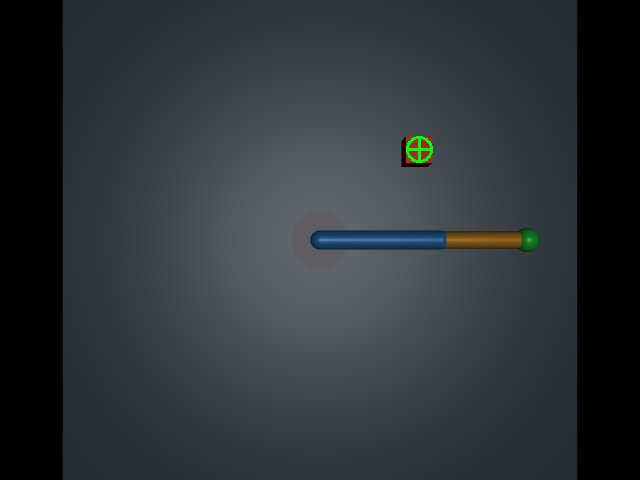
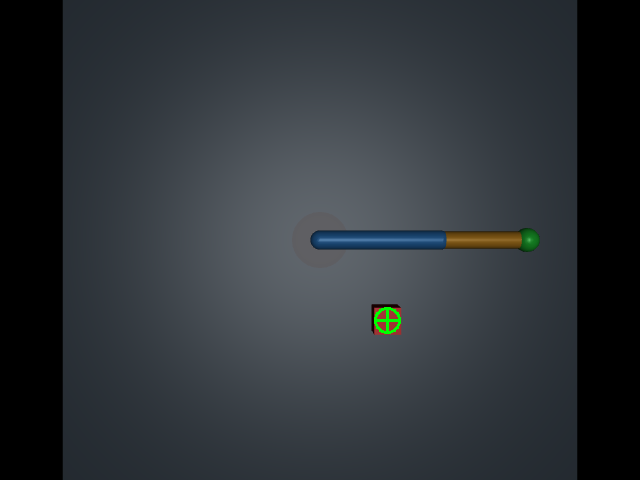
pixel to world mapping completed

Changed region(s): [[0.5625, 0.625, 0.625, 0.7188], [0.625, 0.2812, 0.6875, 0.375]]

diff --git a/tests/test_transforms.py b/tests/test_transforms.py
@@ -1,0 +1,107 @@
+import pytest
+
+from sight2servo.transforms import overhead_pixel_to_world_xy
+from sight2servo.vision import detect_red_target_centroid
+from sight2servo.camera import render_rgb_frame
+
+import mujoco
+
+from pathlib import Path
+
+
+def test_image_center_maps_directly_below_camera():
+    world_xy_m = overhead_pixel_to_world_xy(
+        pixel_u_px=319.5,
+        pixel_v_px=239.5,
+        image_width_px=640,
+        image_height_px=480,
+        camera_x_m=0.10,
+        camera_y_m=-0.20,
+        camera_z_m=1.20,
+        plane_z_m=0.06,
+        vertical_fov_deg=50.0,
+    )
+
+    assert world_xy_m == pytest.approx(
+        (0.10, -0.20)
+    )
+
+
+def test_detected_target_pixel_maps_to_known_world_position():
+    world_xy_m = overhead_pixel_to_world_xy(
+        pixel_u_px=419,
+        pixel_v_px=149,
+        image_width_px=640,
+        image_height_px=480,
+        camera_x_m=0.0,
+        camera_y_m=0.0,
+        camera_z_m=1.20,
+        plane_z_m=0.06,
+        vertical_fov_deg=50.0,
+    )
+
+    assert world_xy_m == pytest.approx(
+        (0.22, 0.20),
+        abs=0.003,
+    )
+
+
+@pytest.mark.parametrize(
+    ("target_x_m", "target_y_m"),
+    [
+        (0.22, 0.20),
+        (-0.20, 0.15),
+        (0.15, -0.18),
+    ],
+)
+def test_camera_detection_maps_known_target_positions(
+    target_x_m,
+    target_y_m
+):
+    MODEL_PATH = (
+        Path(__file__).resolve().parents[1]
+        / "models"
+        / "arm.xml"
+    )
+    model = mujoco.MjModel.from_xml_path(
+        str(MODEL_PATH)
+    )
+    model.body("target").pos[:2] = (
+        target_x_m,
+        target_y_m,
+    )
+    data = mujoco.MjData(model)
+    mujoco.mj_forward(model, data)
+
+    renderer = mujoco.Renderer(
+            model,
+            height=240,
+            width=320,
+    )
+
+    try:
+        frame_rgb = render_rgb_frame(renderer, data, "overhead")
+    finally:
+        renderer.close()
+
+    centroid_px = detect_red_target_centroid(frame_rgb)
+
+    assert centroid_px is not None
+    centroid_u_px, centroid_v_px = centroid_px
+
+    estimated_xy_m = overhead_pixel_to_world_xy(
+        pixel_u_px=centroid_u_px,
+        pixel_v_px=centroid_v_px,
+        image_width_px=320,
+        image_height_px=240,
+        camera_x_m=0.0,
+        camera_y_m=0.0,
+        camera_z_m=1.20,
+        plane_z_m=0.06,
+        vertical_fov_deg=50.0,
+    )
+
+    assert estimated_xy_m == pytest.approx(
+        (target_x_m, target_y_m),
+        abs=0.006,
+    )

diff --git a/src/sight2servo/vision_demo.py b/src/sight2servo/vision_demo.py
@@ -4,6 +4,7 @@ import mujoco
 
 from sight2servo.camera import render_rgb_frame
 from sight2servo.vision import detect_red_target_centroid
+from sight2servo.transforms import overhead_pixel_to_world_xy
 
 import cv2
 
@@ -16,6 +17,10 @@ MODEL_PATH = (
 model = mujoco.MjModel.from_xml_path(
     str(MODEL_PATH)
 )
+
+# model.body("target").pos[:2] = (-0.20, 0.15)
+# model.body("target").pos[:2] = (0.15, -0.18)
+
 
 data = mujoco.MjData(model)
 
@@ -46,6 +51,23 @@ centroid_u_px, centroid_v_px = centroid_px
 print("Detected centroid (u, v):", centroid_px)
 print("Horizontal pixel u:", centroid_u_px)
 print("Vertical pixel v:", centroid_v_px)
+
+estimated_target_xy_m = overhead_pixel_to_world_xy(
+    pixel_u_px=centroid_u_px,
+    pixel_v_px=centroid_v_px,
+    image_width_px=image_width_px,
+    image_height_px=image_height_px,
+    camera_x_m=0.0,
+    camera_y_m=0.0,
+    camera_z_m=1.20,
+    plane_z_m=0.06,
+    vertical_fov_deg=50.0,
+)
+
+print(
+    "Estimated target world (x, y):",
+    estimated_target_xy_m,
+)
 
 frame_bgr = cv2.cvtColor(
     frame_rgb,

diff --git a/src/sight2servo/transforms.py b/src/sight2servo/transforms.py
@@ -1,0 +1,37 @@
+from math import radians, tan
+
+def overhead_pixel_to_world_xy(
+    pixel_u_px: float,
+    pixel_v_px: float,
+    image_width_px: int,
+    image_height_px: int,
+    camera_x_m: float,
+    camera_y_m: float,
+    camera_z_m: float,
+    plane_z_m: float,
+    vertical_fov_deg: float,
+) -> tuple[float, float]:
+
+    camera_to_plane_distance_m = camera_z_m - plane_z_m
+
+    visible_world_height_m = (
+        2.0
+        * camera_to_plane_distance_m
+        * tan(radians(vertical_fov_deg) / 2.0)
+    )
+
+    meters_per_pixel = (
+        visible_world_height_m / image_height_px
+    )
+
+    center_u_px = (image_width_px - 1) / 2.0
+    center_v_px = (image_height_px - 1) / 2.0
+
+    offset_u_px = pixel_u_px - center_u_px
+    offset_v_px = pixel_v_px - center_v_px
+
+    world_x_m = camera_x_m + offset_u_px * meters_per_pixel
+    world_y_m = camera_y_m - offset_v_px * meters_per_pixel
+
+
+    return world_x_m, world_y_m
